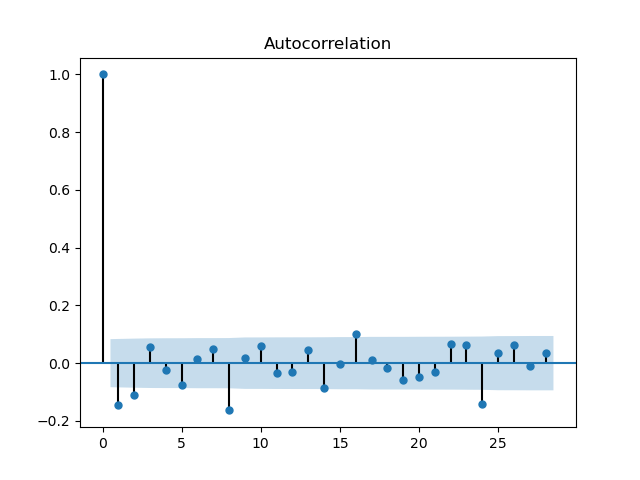
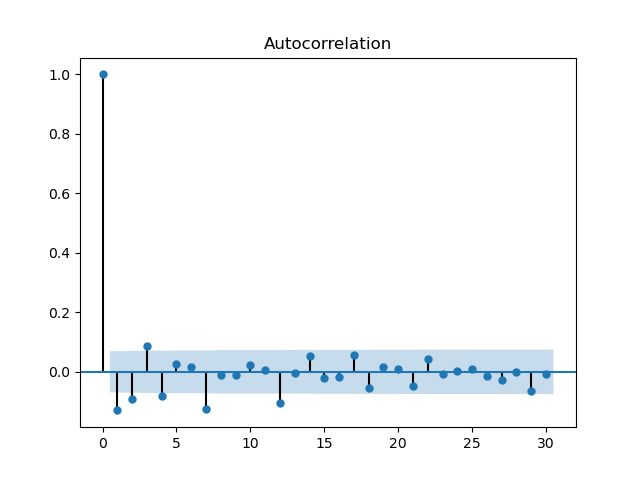
upload Dickey Fuller test

diff --git a/Data_prep/Data_preparation.py b/Data_prep/Data_preparation.py
@@ -1,29 +1,35 @@
-import numpy as np
 import pandas as pd
+import yfinance as yf
 
-#need to figure out how to substring file name for Ticker
-df = pd.read_csv('../MSFT.csv')
-df['Ticker'] = 'MSFT'
+#pulling stock data
+MSFTdf = yf.download('MSFT', period='1d', start='2016-1-1', end='2018-12-31', auto_adjust = False)
+MSFTdf.index = pd.to_datetime(MSFTdf.index)
+MSFTdf.insert(0, 'Date', MSFTdf.index)
+MSFTdf['Ticker'] = 'MSFT'
 
-SPY = pd.read_csv('../SPY.csv')
-SPY['Ticker'] = 'SPY'
+SPYdf = yf.download('SPY', period='1d', start='2016-1-1', end='2018-12-31', auto_adjust = False)
+SPYdf.index = pd.to_datetime(SPYdf.index)
+SPYdf.insert(0, 'Date', SPYdf.index)
+SPYdf['Ticker'] = 'SPY'
 
-#calculating derived variables
-df['Intraday Range'] = abs(df['Open'] - df['High'])
-df['IntChange'] = df['Adj Close'].diff()
-df['IntPctChange'] = df['Adj Close'].pct_change()*100
-df['200SMA'] = df['Adj Close'].rolling(window = 200).mean()
-SPY['IntPctChange'] = SPY['Adj Close'].pct_change()*100
-df['SPY_PctDiff'] =  df['IntPctChange'] - SPY['IntPctChange']
-
-#removing missing values
-df = df.dropna()
+#calculate 200 day Simple Moving Average
+MSFTdf['200SMA'] = MSFTdf['Close'].rolling(window = 200).mean()
 
 #filling missing weekday data
-df['Date'] = pd.to_datetime(df.Date)
-df.set_index('Date', inplace=True)
-df = df.resample('D').ffill().reset_index()
+MSFTdf.set_index('Date', inplace=True)
+MSFTdf = MSFTdf.resample('D').ffill().reset_index()
+SPYdf.set_index('Date', inplace=True)
+SPYdf = SPYdf.resample('D').ffill().reset_index()
 
+#calculating derived variables
+MSFTdf['Intraday Range'] = abs(MSFTdf['Open'] - MSFTdf['High'])
+MSFTdf['IntChange'] = MSFTdf['Close'].diff()
+MSFTdf['IntPctChange'] = MSFTdf['Close'].pct_change() * 100
+SPYdf['IntPctChange'] = SPYdf['Close'].pct_change() * 100
+MSFTdf['SPY_PctDiff'] = MSFTdf['IntPctChange'] - SPYdf['IntPctChange']
 
-#To export dataframe df to .csv file
-#df.to_csv('MSFT_updated1.csv', sep=',', index = False)
+#removing missing values
+MSFTdf = MSFTdf.dropna()
+
+#To export dataframe to .csv file
+#MSFTdf.to_csv('MSFT_updated.csv', sep=',', index = False)

diff --git a/Dickey-Fuller/Dickey_Fuller.py b/Dickey-Fuller/Dickey_Fuller.py
@@ -1,0 +1,32 @@
+from Data_prep.Data_preparation import MSFTdf
+from statsmodels.tsa.stattools import adfuller
+
+ADFresult = adfuller(MSFTdf['Close'])
+
+#stating null hypothesis
+print('\nNull Hypothesis (H0) = Data is non-stationary')
+
+#displaying results using Closing prices
+print('\nDickey Fuller Test using Closing prices:')
+print('ADF Statistic: %f' %ADFresult[0])
+print('p-value: %f' %ADFresult[1])
+print('Critical Values:')
+for key, value in ADFresult[4].items():
+	print('\t%s: %.3f' %(key, value))
+if ADFresult[0] < ADFresult[4]['1%']:
+    print('Reject the Null Hypothesis; Data is stationary')
+else:
+    print('Fail to reject null hypothesis; Data is non-stationary')
+
+#displaying results using first differences in closing prices
+ADFresult = adfuller(MSFTdf['IntChange'])
+print('\nDickey Fuller Test using First Differences of Closing prices: ')
+print('ADF Statistic: %f' %ADFresult[0])
+print('p-value: %f' %ADFresult[1])
+print('Critical Values:')
+for key, value in ADFresult[4].items():
+	print('\t%s: %.3f' %(key, value))
+if ADFresult[0] < ADFresult[4]['1%']:
+    print('Reject the Null Hypothesis; Data is stationary')
+else:
+    print('Fail to reject null hypothesis; Data is non-stationary')

diff --git a/ACF_PACF/ACF_PACF.py b/ACF_PACF/ACF_PACF.py
@@ -3,11 +3,11 @@ import matplotlib.pyplot as plt
 from statsmodels.graphics.tsaplots import plot_acf, plot_pacf
 
 #sourcing df from Data Preparation
-from Data_prep.Data_preparation import df
+from Data_prep.Data_preparation import MSFTdf
 
 #exporting ACF and PACF
-acf_plot = plot_acf(df.IntChange)
-plt.savefig('MSFT_ACF')
+acf_plot = plot_acf(MSFTdf.IntChange)
+#plt.savefig('MSFT_ACF')
 
-pacf_plot = plot_pacf(df.IntChange)
-plt.savefig('MSFT_PACF')
+pacf_plot = plot_pacf(MSFTdf.IntChange)
+#plt.savefig('MSFT_PACF')
